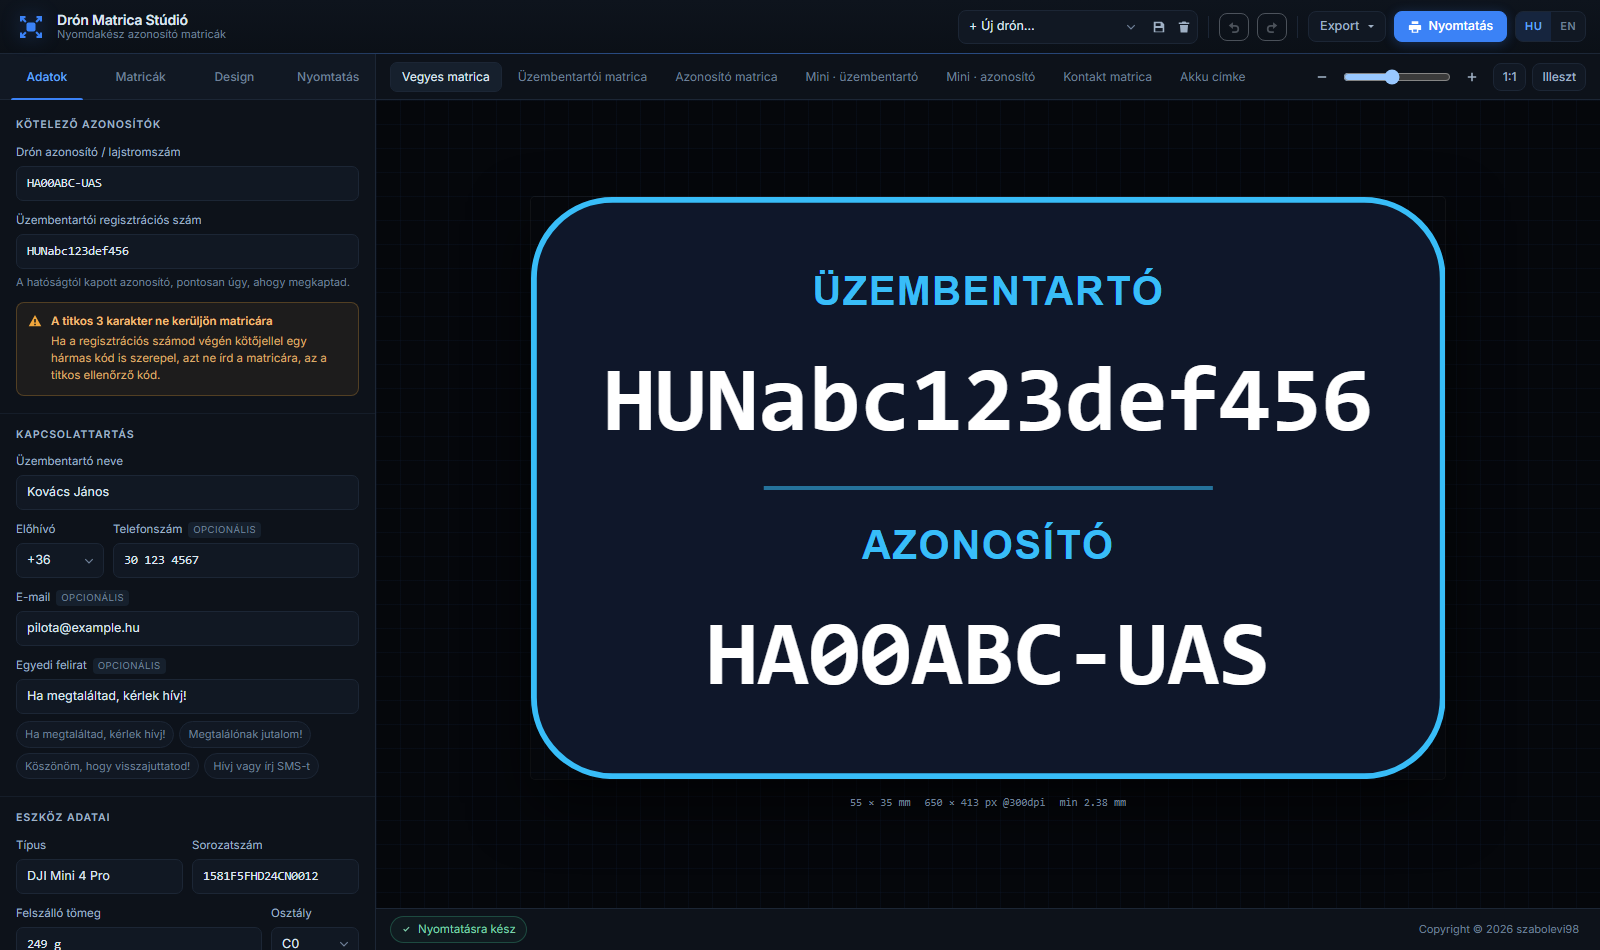
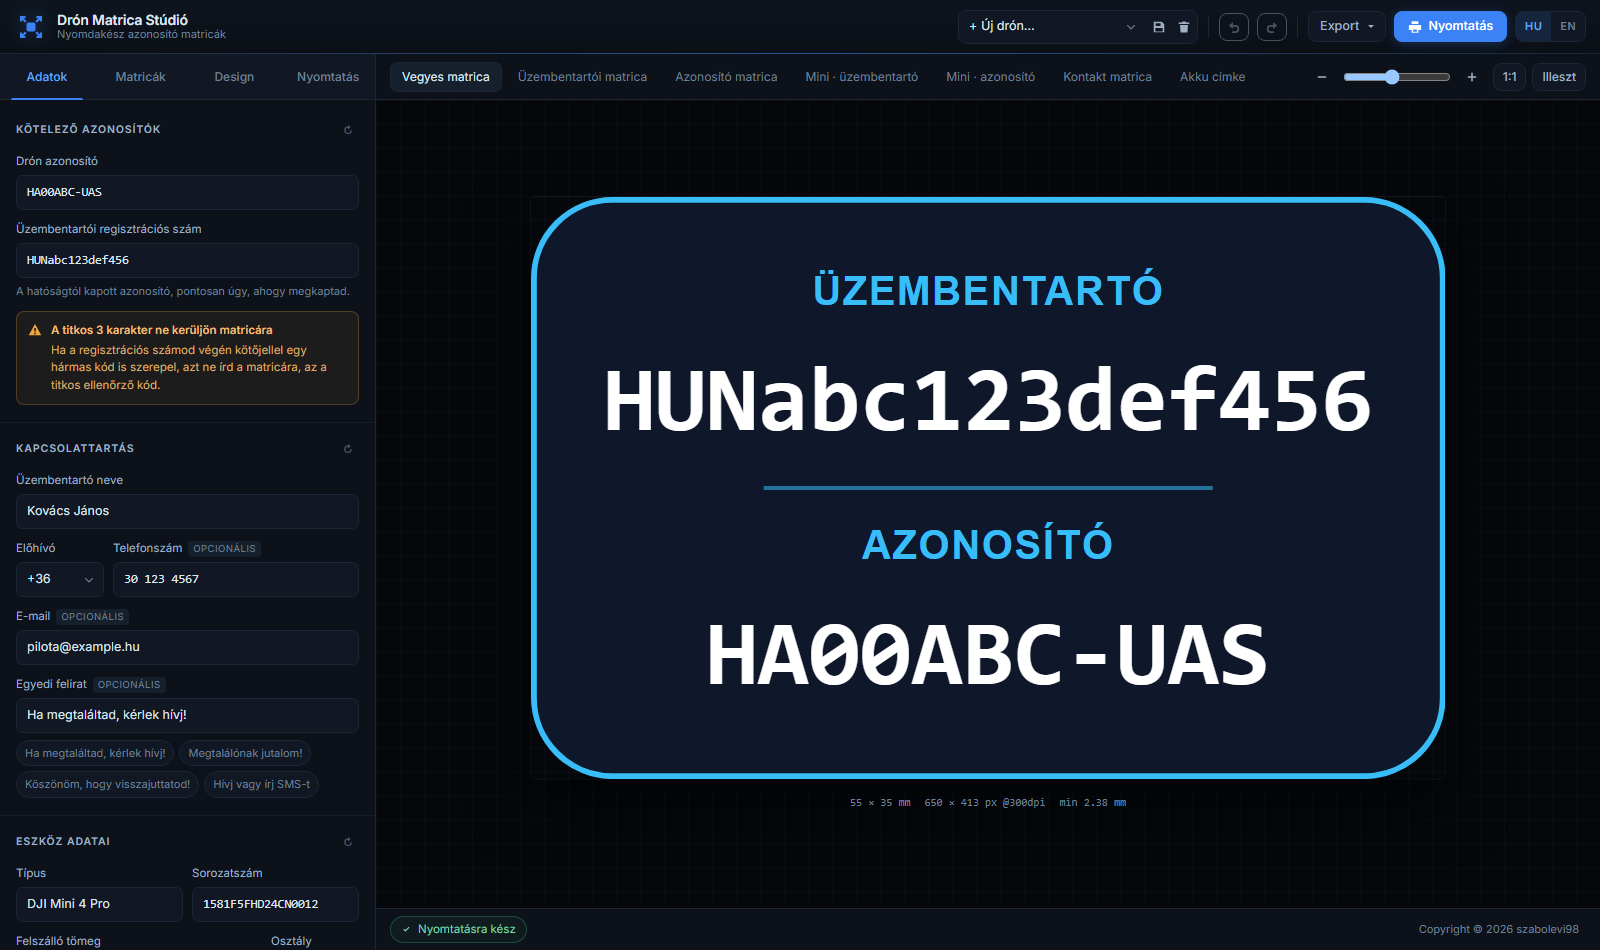
Alapértékek visszaállítása gomb szakaszonként
Minden szerkesztő csoport fejlécének jobb szélére került egy visszaállító
gomb, összesen tizennégy: a négy adatcsoport, a matrica típusok, a méret, a
tartalmi elemek, a színséma, a tipográfia, a vonalak és margó, a QR, a média,
a nyomtatási ív és a kosár. Mindegyik csak a saját szakaszát állítja vissza,
a többit érintetlenül hagyja, és visszavonható.

A tartalmi elemeknél ez leváltotta a korábbi teljes szélességű gombot, hogy
a mintázat egységes legyen.

Az adatmező címkéjéből kikerült a lajstromszám szó, csak Drón azonosító
maradt; a lajstromszám a felirat-választóban továbbra is elérhető.

Changed region(s): [[0.0, 0.1221, 0.2188, 1.0], [0.125, 0.8853, 0.2188, 1.0]]

diff --git a/index.html b/index.html
@@ -97,9 +97,10 @@
 
       <section class="pane active" id="pane-data">
         <div class="group">
-          <div class="group-head"><h3 data-i18n="data.required">Kötelező azonosítók</h3></div>
+          <div class="group-head"><h3 data-i18n="data.required">Kötelező azonosítók</h3>
+            <button type="button" class="group-reset" data-reset="data.ids" data-i18n-title="reset.title" data-i18n-aria="reset.title" title="Alapértékek visszaállítása"><svg viewBox="0 0 16 16" aria-hidden="true"><path d="M8 3.2V1l3.4 3.2L8 7.4V5A3.4 3.4 0 1 0 11.4 8.4h1.7A5.1 5.1 0 1 1 8 3.2z"/></svg></button></div>
           <div class="field">
-            <label for="f-regId" data-i18n="f.regId">Drón azonosító / lajstromszám</label>
+            <label for="f-regId" data-i18n="f.regId">Drón azonosító</label>
             <input type="text" id="f-regId" class="form-control mono" placeholder="HA00ABC-UAS" autocomplete="off" spellcheck="false">
           </div>
           <div class="field">
@@ -117,7 +118,8 @@
         </div>
 
         <div class="group">
-          <div class="group-head"><h3 data-i18n="data.contact">Kapcsolattartás</h3></div>
+          <div class="group-head"><h3 data-i18n="data.contact">Kapcsolattartás</h3>
+            <button type="button" class="group-reset" data-reset="data.contact" data-i18n-title="reset.title" data-i18n-aria="reset.title" title="Alapértékek visszaállítása"><svg viewBox="0 0 16 16" aria-hidden="true"><path d="M8 3.2V1l3.4 3.2L8 7.4V5A3.4 3.4 0 1 0 11.4 8.4h1.7A5.1 5.1 0 1 1 8 3.2z"/></svg></button></div>
           <div class="field">
             <label for="f-owner" data-i18n="f.owner">Üzembentartó neve</label>
             <input type="text" id="f-owner" class="form-control" placeholder="Kovács János" autocomplete="off">
@@ -155,7 +157,8 @@
         </div>
 
         <div class="group">
-          <div class="group-head"><h3 data-i18n="data.aircraft">Eszköz adatai</h3></div>
+          <div class="group-head"><h3 data-i18n="data.aircraft">Eszköz adatai</h3>
+            <button type="button" class="group-reset" data-reset="data.device" data-i18n-title="reset.title" data-i18n-aria="reset.title" title="Alapértékek visszaállítása"><svg viewBox="0 0 16 16" aria-hidden="true"><path d="M8 3.2V1l3.4 3.2L8 7.4V5A3.4 3.4 0 1 0 11.4 8.4h1.7A5.1 5.1 0 1 1 8 3.2z"/></svg></button></div>
           <div class="field-row">
             <div class="field">
               <label for="f-model" data-i18n="f.model">Típus</label>
@@ -187,7 +190,8 @@
         </div>
 
         <div class="group">
-          <div class="group-head"><h3 data-i18n="data.battery">Akkumulátor címke</h3></div>
+          <div class="group-head"><h3 data-i18n="data.battery">Akkumulátor címke</h3>
+            <button type="button" class="group-reset" data-reset="data.battery" data-i18n-title="reset.title" data-i18n-aria="reset.title" title="Alapértékek visszaállítása"><svg viewBox="0 0 16 16" aria-hidden="true"><path d="M8 3.2V1l3.4 3.2L8 7.4V5A3.4 3.4 0 1 0 11.4 8.4h1.7A5.1 5.1 0 1 1 8 3.2z"/></svg></button></div>
           <div class="field-row">
             <div class="field">
               <label for="f-batNo" data-i18n="f.batNo">Akku sorszáma</label>
@@ -211,12 +215,14 @@
           <div class="group-head">
             <h3 data-i18n="st.types">Matrica típusok</h3>
             <span class="group-note" data-i18n="st.types.note">Kattints a szerkesztéshez</span>
+            <button type="button" class="group-reset" data-reset="types.on" data-i18n-title="reset.title" data-i18n-aria="reset.title" title="Alapértékek visszaállítása"><svg viewBox="0 0 16 16" aria-hidden="true"><path d="M8 3.2V1l3.4 3.2L8 7.4V5A3.4 3.4 0 1 0 11.4 8.4h1.7A5.1 5.1 0 1 1 8 3.2z"/></svg></button>
           </div>
           <div class="type-list" id="typeList"></div>
         </div>
 
         <div class="group">
-          <div class="group-head"><h3><span data-i18n="st.size">Méret</span> · <span class="accent-text" id="activeTypeName"></span></h3></div>
+          <div class="group-head"><h3><span data-i18n="st.size">Méret</span> · <span class="accent-text" id="activeTypeName"></span></h3>
+            <button type="button" class="group-reset" data-reset="type.size" data-i18n-title="reset.title" data-i18n-aria="reset.title" title="Alapértékek visszaállítása"><svg viewBox="0 0 16 16" aria-hidden="true"><path d="M8 3.2V1l3.4 3.2L8 7.4V5A3.4 3.4 0 1 0 11.4 8.4h1.7A5.1 5.1 0 1 1 8 3.2z"/></svg></button></div>
           <div class="field">
             <label data-i18n="st.preset">Gyakori méretek</label>
             <div class="chips" id="sizePresets"></div>
@@ -253,15 +259,16 @@
           <div class="group-head">
             <h3 data-i18n="st.blocks">Tartalmi elemek</h3>
             <span class="group-note" data-i18n="st.blocks.note">Húzd vagy nyilazd</span>
+            <button type="button" class="group-reset" data-reset="type.blocks" data-i18n-title="reset.title" data-i18n-aria="reset.title" title="Alapértékek visszaállítása"><svg viewBox="0 0 16 16" aria-hidden="true"><path d="M8 3.2V1l3.4 3.2L8 7.4V5A3.4 3.4 0 1 0 11.4 8.4h1.7A5.1 5.1 0 1 1 8 3.2z"/></svg></button>
           </div>
           <div class="block-list" id="blockList"></div>
-          <button class="btn btn-ghost btn-sm w-100" id="resetBlocks" data-i18n="st.blocks.reset">Alapértelmezett elrendezés visszaállítása</button>
         </div>
       </section>
 
       <section class="pane" id="pane-design">
         <div class="group">
-          <div class="group-head"><h3 data-i18n="d.theme">Színséma</h3></div>
+          <div class="group-head"><h3 data-i18n="d.theme">Színséma</h3>
+            <button type="button" class="group-reset" data-reset="style.colors" data-i18n-title="reset.title" data-i18n-aria="reset.title" title="Alapértékek visszaállítása"><svg viewBox="0 0 16 16" aria-hidden="true"><path d="M8 3.2V1l3.4 3.2L8 7.4V5A3.4 3.4 0 1 0 11.4 8.4h1.7A5.1 5.1 0 1 1 8 3.2z"/></svg></button></div>
           <div class="theme-grid" id="themeGrid"></div>
           <div class="field-row field-colors">
             <div class="field">
@@ -285,7 +292,8 @@
         </div>
 
         <div class="group">
-          <div class="group-head"><h3 data-i18n="d.type">Tipográfia</h3></div>
+          <div class="group-head"><h3 data-i18n="d.type">Tipográfia</h3>
+            <button type="button" class="group-reset" data-reset="style.type" data-i18n-title="reset.title" data-i18n-aria="reset.title" title="Alapértékek visszaállítása"><svg viewBox="0 0 16 16" aria-hidden="true"><path d="M8 3.2V1l3.4 3.2L8 7.4V5A3.4 3.4 0 1 0 11.4 8.4h1.7A5.1 5.1 0 1 1 8 3.2z"/></svg></button></div>
           <div class="field">
             <label for="d-font" data-i18n="d.font">Betűtípus</label>
             <select id="d-font" class="form-select"></select>
@@ -322,7 +330,8 @@
         </div>
 
         <div class="group">
-          <div class="group-head"><h3 data-i18n="d.frame">Vonalak és margó</h3></div>
+          <div class="group-head"><h3 data-i18n="d.frame">Vonalak és margó</h3>
+            <button type="button" class="group-reset" data-reset="style.frame" data-i18n-title="reset.title" data-i18n-aria="reset.title" title="Alapértékek visszaállítása"><svg viewBox="0 0 16 16" aria-hidden="true"><path d="M8 3.2V1l3.4 3.2L8 7.4V5A3.4 3.4 0 1 0 11.4 8.4h1.7A5.1 5.1 0 1 1 8 3.2z"/></svg></button></div>
           <div class="field">
             <label for="d-border"><span data-i18n="d.border">Keret vastagsága</span><output id="d-border-o" class="mono"></output></label>
             <input type="range" id="d-border" class="form-range" min="0" max="1.6" step="0.05">
@@ -336,6 +345,7 @@
         <div class="group">
           <div class="group-head">
             <h3 data-i18n="d.qr">QR kód</h3>
+            <button type="button" class="group-reset" data-reset="qr" data-i18n-title="reset.title" data-i18n-aria="reset.title" title="Alapértékek visszaállítása"><svg viewBox="0 0 16 16" aria-hidden="true"><path d="M8 3.2V1l3.4 3.2L8 7.4V5A3.4 3.4 0 1 0 11.4 8.4h1.7A5.1 5.1 0 1 1 8 3.2z"/></svg></button>
             <label class="switch switch-bare"><input type="checkbox" id="q-enabled"><span></span></label>
           </div>
           <div class="sub" id="qrSub">
@@ -381,7 +391,8 @@
         </div>
 
         <div class="group">
-          <div class="group-head"><h3 data-i18n="d.media">Logó és háttérkép</h3></div>
+          <div class="group-head"><h3 data-i18n="d.media">Logó és háttérkép</h3>
+            <button type="button" class="group-reset" data-reset="media" data-i18n-title="reset.title" data-i18n-aria="reset.title" title="Alapértékek visszaállítása"><svg viewBox="0 0 16 16" aria-hidden="true"><path d="M8 3.2V1l3.4 3.2L8 7.4V5A3.4 3.4 0 1 0 11.4 8.4h1.7A5.1 5.1 0 1 1 8 3.2z"/></svg></button></div>
           <div class="field">
             <label data-i18n="m.logo">Logó</label>
             <div class="dropzone" id="logoDrop">
@@ -421,7 +432,8 @@
 
       <section class="pane" id="pane-print">
         <div class="group">
-          <div class="group-head"><h3 data-i18n="p.sheet">Nyomtatási ív</h3></div>
+          <div class="group-head"><h3 data-i18n="p.sheet">Nyomtatási ív</h3>
+            <button type="button" class="group-reset" data-reset="print.sheet" data-i18n-title="reset.title" data-i18n-aria="reset.title" title="Alapértékek visszaállítása"><svg viewBox="0 0 16 16" aria-hidden="true"><path d="M8 3.2V1l3.4 3.2L8 7.4V5A3.4 3.4 0 1 0 11.4 8.4h1.7A5.1 5.1 0 1 1 8 3.2z"/></svg></button></div>
           <div class="field-row">
             <div class="field">
               <label for="p-paper" data-i18n="p.paper">Papír</label>
@@ -459,6 +471,7 @@
           <div class="group-head">
             <h3 data-i18n="p.basket">Nyomtatási kosár</h3>
             <span class="group-note" id="basketCount"></span>
+            <button type="button" class="group-reset" data-reset="print.basket" data-i18n-title="reset.title" data-i18n-aria="reset.title" title="Alapértékek visszaállítása"><svg viewBox="0 0 16 16" aria-hidden="true"><path d="M8 3.2V1l3.4 3.2L8 7.4V5A3.4 3.4 0 1 0 11.4 8.4h1.7A5.1 5.1 0 1 1 8 3.2z"/></svg></button>
           </div>
           <div class="basket" id="basket"></div>
           <div class="basket-add">

diff --git a/js/main.js b/js/main.js
@@ -223,6 +223,45 @@ function buildTypeList() {
   });
 }
 
+const RESETS = {
+  'data.ids': (s, d) => Object.assign(s.data, { operatorId: d.data.operatorId, regId: d.data.regId }),
+  'data.contact': (s, d) => Object.assign(s.data, {
+    owner: d.data.owner, dial: d.data.dial, phone: d.data.phone, email: d.data.email, text: d.data.text
+  }),
+  'data.device': (s, d) => Object.assign(s.data, {
+    model: d.data.model, serial: d.data.serial, mtom: d.data.mtom, cls: d.data.cls, url: d.data.url
+  }),
+  'data.battery': (s, d) => Object.assign(s.data, {
+    batNo: d.data.batNo, batCap: d.data.batCap, batDate: d.data.batDate
+  }),
+  'types.on': s => TYPE_IDS.forEach(id => { s.types[id].on = true; }),
+  'type.size': s => {
+    const def = defaultType(s.active);
+    Object.assign(s.types[s.active], { w: def.w, h: def.h, shape: def.shape, radius: def.radius });
+  },
+  'type.blocks': s => { s.types[s.active].blocks = defaultBlocks(s.active); },
+  'style.colors': (s, d) => Object.assign(s.style, {
+    theme: d.style.theme, bg: d.style.bg, fg: d.style.fg,
+    accent: d.style.accent, borderColor: d.style.borderColor
+  }),
+  'style.type': (s, d) => Object.assign(s.style, {
+    font: d.style.font, fill: d.style.fill, tracking: d.style.tracking, align: d.style.align,
+    upper: d.style.upper, monoIds: d.style.monoIds, bilingual: d.style.bilingual,
+    regCaption: d.style.regCaption
+  }),
+  'style.frame': (s, d) => Object.assign(s.style, { border: d.style.border, padding: d.style.padding }),
+  'qr': (s, d) => {
+    Object.assign(s.qr, d.qr);
+    s.types[s.active].qr = defaultType(s.active).qr;
+  },
+  'media': (s, d) => Object.assign(s.media, d.media),
+  'print.sheet': (s, d) => Object.assign(s.print, {
+    paper: d.print.paper, orientation: d.print.orientation, margin: d.print.margin,
+    gap: d.print.gap, cut: d.print.cut, outline: d.print.outline, mirror: d.print.mirror
+  }),
+  'print.basket': s => { s.print.basket = []; }
+};
+
 function enabledTypes() {
   return TYPE_IDS.filter(id => state.types[id].on);
 }
@@ -881,10 +920,6 @@ function wire() {
     commit();
   });
 
-  $('resetBlocks').addEventListener('click', () => {
-    state.types[state.active].blocks = defaultBlocks(state.active);
-    commit();
-  });
 
   const blockBox = $('blockList');
   blockBox.addEventListener('dragover', e => {
@@ -960,6 +995,15 @@ function wire() {
   $('sideTabs').addEventListener('click', e => {
     const b = e.target.closest('button');
     if (b) openPane(b.dataset.pane);
+  });
+
+  document.querySelectorAll('.group-reset').forEach(btn => {
+    btn.addEventListener('click', () => {
+      const apply = RESETS[btn.dataset.reset];
+      if (!apply) return;
+      apply(state, defaultState(false));
+      commit();
+    });
   });
 
   $('langSwitch').addEventListener('click', e => {

diff --git a/js/i18n.js b/js/i18n.js
@@ -35,7 +35,7 @@ const DICT = {
     'opt.none': 'nincs',
 
     'f.operatorId': 'Üzembentartói regisztrációs szám',
-    'f.regId': 'Drón azonosító / lajstromszám',
+    'f.regId': 'Drón azonosító',
     'f.owner': 'Üzembentartó neve',
     'f.dial': 'Előhívó',
     'f.phone': 'Telefonszám',
@@ -76,7 +76,7 @@ const DICT = {
     'st.shape': 'Alak',
     'st.blocks': 'Tartalmi elemek',
     'st.blocks.note': 'Húzd vagy nyilazd',
-    'st.blocks.reset': 'Alapértelmezett elrendezés visszaállítása',
+    'reset.title': 'Alapértékek visszaállítása',
     'shape.rect': 'Téglalap',
     'shape.round': 'Lekerekített',
     'shape.ellipse': 'Ellipszis',
@@ -250,7 +250,7 @@ const DICT = {
     'opt.none': 'none',
 
     'f.operatorId': 'UAS operator registration number',
-    'f.regId': 'Drone identifier / registration',
+    'f.regId': 'Drone identifier',
     'f.owner': 'Operator name',
     'f.dial': 'Code',
     'f.phone': 'Phone number',
@@ -291,7 +291,7 @@ const DICT = {
     'st.shape': 'Shape',
     'st.blocks': 'Content elements',
     'st.blocks.note': 'Drag or use arrows',
-    'st.blocks.reset': 'Restore default layout',
+    'reset.title': 'Reset to defaults',
     'shape.rect': 'Rectangle',
     'shape.round': 'Rounded',
     'shape.ellipse': 'Ellipse',

diff --git a/css/style.css b/css/style.css
@@ -274,12 +274,27 @@ body {
 .group-head {
   display: flex;
   align-items: center;
-  justify-content: space-between;
   gap: 10px;
   margin-bottom: 12px;
 }
+.group-reset {
+  flex: 0 0 auto;
+  width: 22px;
+  height: 22px;
+  padding: 0;
+  border: 0;
+  border-radius: 5px;
+  background: transparent;
+  color: #47586e;
+  cursor: pointer;
+  display: inline-flex;
+  align-items: center;
+  justify-content: center;
+}
+.group-reset:hover { background: var(--panel-3); color: var(--accent-hi); }
+.group-reset svg { width: 12px; height: 12px; fill: currentColor; }
 .group-head h3 {
-  margin: 0;
+  margin: 0 auto 0 0;
   font-size: 10.5px;
   font-weight: 600;
   text-transform: uppercase;
